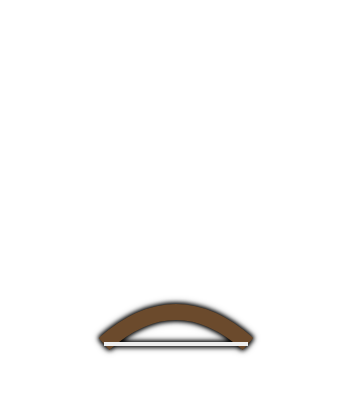
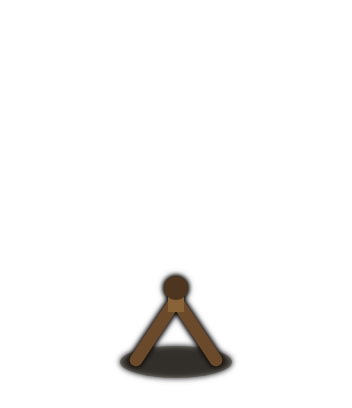
Brandpfeil: Bogen zielt, brennender Pfeil (26q)
Claude-Session: https://claude.ai/code/session_012Nsno37nEjc4wateER8C5H

Changed region(s): [[0.25, 0.6471, 0.75, 0.9412]]

diff --git a/index.html b/index.html
@@ -222,7 +222,7 @@ const FIREBASE_CONFIG = {
   appId: "1:45840879921:web:f4f4f8bb60e49a091ae010"
 };
 const GAME_ID = "spiel1";   // anderer Name = eigenes, getrenntes Spiel
-const VERSION = "2026-10-26p";  // bei JEDER Änderung hochzählen: alte Handys merken so, dass sie neu laden müssen
+const VERSION = "2026-10-26q";  // bei JEDER Änderung hochzählen: alte Handys merken so, dass sie neu laden müssen
 
 /* =====================================================================
    SPIELDATEN – Regeln und Zahlen. Alles hier darf geändert werden.
@@ -1895,14 +1895,14 @@ function drawTower(c, tw, px, py, cs, aim, glow, noBody){
 }
 const TIMG = {};   // 26.10. (F): freistehende Turm-Bilder der Schräg-Ansicht, assets/turm/<element>-<nr>.png (88×102-Raster, Fußpunkt bei y=92), Entwürfe/Quelle: team/GRAFIK.md
 const TOWER_NAME = ['feuer', 'eis', 'schatten', 'stein'];
-const TOWER_H = { feuer:[22,42,26,49,52,65.8,52,42], eis:[26,34.5,66.4,57,39.9,58.2,48,66], schatten:[26,44,39,44,26.6,49,48,60], stein:[48,30,58,62,22,70,33,88] };   // Höhe der Zeichnung über dem Fuß (Raster-Einheiten)
+const TOWER_H = { feuer:[22,42,26,34,52,65.8,52,42], eis:[26,34.5,66.4,57,39.9,58.2,48,66], schatten:[26,44,39,44,26.6,49,48,60], stein:[48,30,58,62,22,70,33,88] };   // Höhe der Zeichnung über dem Fuß (Raster-Einheiten)
 function loadImg(k){   // bei Ladefehler bis zu 3 Wiederholungen (Handy-Netz)
   if (k in TIMG) return TIMG[k] && TIMG[k].complete && TIMG[k].naturalWidth ? TIMG[k] : null;
   const im = new Image(); im.onerror = () => { TIMG[k] = null; loadImg.n[k] = (loadImg.n[k] || 0) + 1; if (loadImg.n[k] < 4) setTimeout(() => { delete TIMG[k]; loadImg(k); }, 1500*loadImg.n[k]); }; im.onload = () => { if (!view25 || typeof drawAll !== 'function') return; drawAll(); clearTimeout(towerImg.t); towerImg.t = setTimeout(() => { if (G && typeof render === 'function') render(); }, 80); }; im.src = 'assets/turm/' + k + '.png'; TIMG[k] = im; return null;
 }
 loadImg.n = {};
 // 26i (F): bewegliche Teile. Jeder Turm hat ein Grundbild (assets/turm/<element>-<nr>.png) und PARTN Teilbilder (…-<nr>p<id>.png, gleiches Raster), die einzeln um einen Drehpunkt bewegt werden
-const PARTN = { feuer:[1,1,2,1,2,2,1,1], eis:[1,1,1,1,1,1,1,2], schatten:[1,1,2,1,2,1,3,2], stein:[1,2,1,1,2,2,2,3] };
+const PARTN = { feuer:[1,1,2,2,2,2,1,1], eis:[1,1,1,1,1,1,1,2], schatten:[1,1,2,1,2,1,3,2], stein:[1,2,1,1,2,2,2,3] };
 function towerImg(el, idx){
   const nmE = TOWER_NAME[el], n = nmE + '-' + (idx + 1), b = loadImg(n), cnt = PARTN[nmE][idx], ps = [];
   let wait = false;
@@ -1917,7 +1917,8 @@ const PARTS = (() => {
     feuer0: [[0, -2, (t, g) => ({ sx: 1 + .1*S(t*9), sy: 1 + .18*S(t*11) + .5*g, r: .08*S(t*7) })]],
     feuer1: [[31, -22, (t, g) => ({ r: .15*S(t*8), sy: 1 + .15*S(t*10) + .5*g, sx: 1 + .3*g })]],
     feuer2: [[7, -12, (t, g, w, dx, dy) => ({ x: -dx*2*g, y: -dy*1.5*g })], [17, -12, (t, g) => ({ sx: 1 + .5*g + .06*S(t*14), sy: 1 + .3*g + .08*S(t*12) })]],
-    feuer3: [[0, -4, (t, g, w) => ({ y: -16*w })]],
+    feuer3: [[0, -20, (t, g, w, dx, dy) => ({ r: Math.max(-.9, Math.min(.9, Math.atan2(dy, Math.abs(dx)))) + .03*S(t*3) - .05*w })],      // Bogen richtet sich auf das Ziel
+             [0, -20, (t, g, w, dx, dy) => { const p = 1 - g; return { r: Math.max(-.9, Math.min(.9, Math.atan2(dy, Math.abs(dx)))), x: p < .2 ? 60*(p/.2) : 0, a: p < .2 ? 1 : p < .55 ? 0 : Math.min(1, (p - .55)/.25) }; }]],   // Pfeil fliegt vorn über den Bogen ab, neuer wird aufgelegt
     feuer4: [[-16.6, -6, (t, g, w, dx, dy) => ({ x: dx*8*w, y: dy*6*w, r: .04*S(t*2) })], [0, -34, (t, g) => ({ sy: 1 + .15*S(t*10) + .4*g, r: .1*S(t*8) })]],
     feuer5: [[0, -46, (t, g) => ({ sy: 1 + .07*S(t*6) + .25*g, sx: 1 + .04*S(t*5) })], [0, -60, (t, g, w) => ({ y: -3*S(t*4) - 8*w, ...sc(1 + .2*g) })]],
     feuer6: [[0, -30, (t, g, w) => ({ r: t*.5 + 1.6*w, ...sc(1 + .12*g) })]],
@@ -1984,7 +1985,7 @@ function drawTower25(c, tw, x, y, cs, aim, glow){
     else if (nm === 'schatten0' || nm === 'schatten5') { sx = sy = 1; ox = oy = 0; }   // Schemen/Phantom: bewegt sich als Teilbild
     else if (nm === 'schatten1') { ox = 0; oy = Math.sin(now*3 + tw.x) * cs*.05 - cs*.05; sx = sy = 1; }   // Irrlicht schwebt
     else if (nm === 'feuer2' || nm === 'feuer3') { ox = -dx*cs*.07*g; }
-    const flip = (nm === 'feuer1' && Math.cos(aim) > 0) || (nm === 'feuer2' && Math.cos(aim) < 0);   // Glumanda blickt nach links, Flammenwerfer-Mündung nach rechts   // Glumanda blickt nach links und dreht sich zum Ziel: Schuss kommt aus dem Maul
+    const flip = (nm === 'feuer1' && Math.cos(aim) > 0) || (nm === 'feuer2' && Math.cos(aim) < 0) || (nm === 'feuer3' && Math.cos(aim) < 0);   // Glumanda blickt nach links, Flammenwerfer-Mündung nach rechts   // Glumanda blickt nach links und dreht sich zum Ziel: Schuss kommt aus dem Maul
     c.save(); c.translate(fx + ox, fy + oy); c.rotate(rotA); c.scale(flip ? -sx : sx, sy);
     c.drawImage(sp, -44*u, -92*u, 88*u, 102*u);
     const gp = Math.max(0, 1 - (now - (FIRE_T[key] === undefined ? -9 : FIRE_T[key])) / .5), wp = gp > 0 ? Math.sin(Math.PI * (1 - gp)) : 0, pd = PARTS[nm];   // bewegliche Teile
@@ -2059,7 +2060,14 @@ function shot25(c, p, x, y, a, cs, time){
     if (i === 1) { tail(q*7, '#ff6a1e66', q*3); ball(q*2.6, '#ff6a1e', '#ffe08a', '#ff8a3d'); return true; }
     if (i === 2) { rot(() => { const fl = 1 + .15*Math.sin(w*2); c.fillStyle = '#e0451a'; c.beginPath(); c.moveTo(-q*9, 0); c.quadraticCurveTo(-q*2, -q*4*fl, q*5, 0); c.quadraticCurveTo(-q*2, q*4*fl, -q*9, 0); c.fill();
         c.fillStyle = '#ffb347'; c.beginPath(); c.moveTo(-q*7, 0); c.quadraticCurveTo(-q*2, -q*2.4, q*3, 0); c.quadraticCurveTo(-q*2, q*2.4, -q*7, 0); c.fill(); c.fillStyle = '#ffe08a'; c.beginPath(); c.ellipse(-q*1, 0, q*3, q*1.1, 0, 0, 7); c.fill(); }); return true; }
-    if (i === 3) return false;
+    if (i === 3) { rot(() => { const fl = 1 + .2*Math.sin(w*2.3);   // brennender Pfeil mit Flammenschweif
+        for (let j = 3; j >= 1; j--) { c.fillStyle = j === 1 ? '#ffb347aa' : '#ff8a3d66'; c.beginPath(); c.ellipse(-q*(3 + j*3.4), Math.sin(w + j)*q*.4, q*(3.6 - j*.6)*fl, q*(1.5 - j*.2), 0, 0, 7); c.fill(); }
+        c.fillStyle = '#c9a26a'; c.fillRect(-q*5, -q*.35, q*8, q*.7); c.fillStyle = '#ddd'; c.beginPath(); c.moveTo(-q*5, 0); c.lineTo(-q*6.4, -q*1.2); c.lineTo(-q*5.6, 0); c.lineTo(-q*6.4, q*1.2); c.fill();
+        c.fillStyle = '#c9c9cf'; c.beginPath(); c.moveTo(q*3, -q*1.1); c.lineTo(q*5, 0); c.lineTo(q*3, q*1.1); c.fill();
+        const gr = c.createRadialGradient(q*2.4, 0, 0, q*2.4, 0, q*5); gr.addColorStop(0, '#ffb347aa'); gr.addColorStop(1, '#ff8a3d00'); c.fillStyle = gr; c.beginPath(); c.arc(q*2.4, 0, q*5, 0, 7); c.fill();
+        c.fillStyle = '#ff8a3d'; c.beginPath(); c.ellipse(q*2.2, 0, q*3.2*fl, q*1.8, 0, 0, 7); c.fill(); c.fillStyle = '#ffe08a'; c.beginPath(); c.ellipse(q*2.6, 0, q*1.8, q*1, 0, 0, 7); c.fill();
+        c.fillStyle = '#ffb347'; for (let j = 0; j < 3; j++) { c.beginPath(); c.arc(-q*(2 + j*3.5) + Math.sin(w*3 + j*2)*q, Math.cos(w*2 + j*3)*q*2, q*.45, 0, 7); c.fill(); } });
+      return true; }
     if (i === 4) { tail(q*6, '#c8301a88', q*2); ball(q*2.4, '#c8301a', '#ffb347', '#ff3a1e'); c.fillStyle = '#3d1410'; for (const sg of [-1, 1]) { c.beginPath(); c.moveTo(x + sg*q*1.4, y - q*2); c.lineTo(x + sg*q*2.8, y - q*4.4); c.lineTo(x + sg*q*.4, y - q*2.6); c.fill(); } return true; }
     if (i === 5) { ball(q*3, '#8a2a10', '#ff6a1e', '#ff5a1e'); c.fillStyle = '#ff8a3d'; c.beginPath(); c.arc(x + q*1.2, y + q*2.6 + Math.sin(w)*q*.4, q*.9, 0, 7); c.fill(); return true; }
     if (i === 6) { ball(q*2.8, '#ffe08a', '#ffffff', '#ffd27a'); return true; }
@@ -2107,6 +2115,7 @@ function drawShot(c, p, cs, time){
   }
   y -= h + (CUR.k < 1 && !p.lob ? cs*.25 : 0);
   if (CUR.k < 1 && p.el === 0 && p.idx === 2) JETS[p.x0 + ',' + p.y0] = { tx:p.tx, ty:p.ty, t:time };   // Flammenwerfer: Ziel merken, die Flamme zeichnet der Turm
+  if (CUR.k < 1 && p.el === 0 && p.idx === 3) { const f = Math.max(0, 1 - (1 - left / tot) * 5), H = TOWER_H.feuer[3], uu = cs * Math.min(1.5, Math.max(.5, H * (1 + 3 * .03) / 44)) / H; x += (Math.cos(dir) > 0 ? 1 : -1) * 20 * uu * f; }   // Brandpfeil: startet vorn am Bogen
   if (CUR.k < 1 && p.el === 0 && p.idx === 1) { const f = Math.max(0, 1 - (1 - left / tot) * 5), uu = cs * .609 / 26; x += (Math.cos(dir) > 0 ? 1 : -1) * 27 * uu * f; }   // Glumanda: Geschoss startet im Maul
   const def = p.def, sz = k * (p.lob ? .42 : .3);
   if (CUR.k < 1 && shot25(c, p, x, y, Math.atan2(dy * CUR.k, dx), cs, time)) return;   // 2,5D: Geschoss passt zum Turm-Bild

diff --git a/tools/turm/tuerme.html b/tools/turm/tuerme.html
@@ -44,7 +44,7 @@ f:[
 ['Funke','Schaden','kleine Feuerschale',20,46,()=>`<ellipse cx="0" cy="-2" rx="12" ry="5" fill="#2b1a14"/><g data-p="0"><path d="M-6 -2 Q-8 -14 0 -22 Q-1 -12 6 -8 Q8 -4 4 -1Z" fill="#ff8a3d"/><path d="M-2 -2 Q-3 -9 1 -14 Q2 -8 3 -2Z" fill="#ffe08a"/></g>`],
 ['Glumanda','Effekt','langer Feuersalamander, Flamme am Schwanzende',26,58,()=>`<path d="M-22 -6 Q-12 -14 4 -11 Q16 -9 22 -4 Q30 0 32 -12 Q33 -20 28 -26 Q36 -20 36 -10 Q36 4 20 2 Q6 0 -6 -2 Q-16 0 -22 -6Z" fill="#2a1f1c"/><ellipse cx="-24" cy="-7" rx="8" ry="6" fill="#2a1f1c"/><circle cx="-27" cy="-10" r="1.9" fill="#ffd27a"/><circle cx="-12" cy="-8" r="2.3" fill="#ff8a3d"/><circle cx="-2" cy="-8" r="2.1" fill="#ffb347"/><circle cx="9" cy="-6" r="2.2" fill="#ff8a3d"/><circle cx="20" cy="-3" r="1.8" fill="#ffb347"/><path d="M-12 -2 l-2 5 M-4 -1 l-1 5 M10 0 l2 5 M16 1 l3 4" stroke="#2a1f1c" stroke-width="3.2" stroke-linecap="round"/><g data-p="0"><path d="M28 -24 Q22 -32 28 -42 Q30 -34 34 -36 Q40 -32 36 -24 Q32 -20 28 -24Z" fill="#ff8a3d"/><path d="M30 -24 Q27 -30 31 -36 Q33 -31 34 -26Z" fill="#ffe08a"/></g>`],
 ['Flammenwerfer','Schaden','Düse mit Feuerstrahl, Tank auf dem Rücken',28,40,()=>`<ellipse cx="0" cy="-1.5" rx="15" ry="4" fill="#2a2218" opacity=".4"/><rect x="-13" y="-4" width="27" height="4" rx="1.5" fill="#5e5953"/><rect x="-12" y="-22" width="12" height="19" rx="5" fill="#a83232"/><rect x="-12" y="-22" width="12" height="4" rx="2" fill="#c94545"/><rect x="-12" y="-14" width="12" height="2.4" fill="#4a1010" opacity=".5"/><circle cx="-6" cy="-24" r="2" fill="#d9cba6"/><rect x="-2" y="-16" width="10" height="9" rx="3" fill="#4a4a4f"/><circle cx="2" cy="-11" r="2" fill="#ffb347"/><g data-p="0"><rect x="7" y="-15" width="9" height="6" rx="2" fill="#2c2c30"/><rect x="14" y="-16" width="3" height="8" rx="1" fill="#3a3a3f"/></g><g data-p="1"><path d="M17 -12 Q20 -17 24 -12 Q20 -8 17 -12Z" fill="#ff8a3d"/><path d="M18 -12 Q20 -14.5 22 -12 Q20 -10 18 -12Z" fill="#ffe08a"/></g>`],
-['Brandpfeil','Luftabwehr','steile Bogenschleuder',34,48,()=>`<path d="M-18 -6 Q0 -22 18 -6" stroke="#6b4a2c" stroke-width="4" fill="none"/><line x1="-18" y1="-6" x2="18" y2="-6" stroke="#eee" stroke-width="1"/><g data-p="0"><rect x="-2" y="-34" width="4" height="30" fill="#c9a26a"/><path d="M0 -44 L-5 -33 L5 -33Z" fill="#ff8a3d"/><path d="M0 -40 q-3 -4 0 -9 q3 5 0 9" fill="#ffe08a"/></g>`],
+['Brandpfeil','Luftabwehr','Holzbogen auf Dreibein, schießt brennende Pfeile',34,40,()=>`<ellipse cx="0" cy="-1.5" rx="14" ry="4" fill="#2a2218" opacity=".4"/><path d="M-10 -2 L0 -17 L10 -2" stroke="#6b4a2c" stroke-width="3.2" fill="none" stroke-linecap="round" stroke-linejoin="round"/><rect x="-2" y="-22" width="4" height="8" fill="#8a6238"/><circle cx="0" cy="-20" r="3" fill="#4d3520"/><g data-p="0"><path d="M2 -34 Q17 -21 2 -8" stroke="#8a6238" stroke-width="3.6" fill="none" stroke-linecap="round"/><path d="M2 -34 L-6 -21 L2 -8" stroke="#eee" stroke-width="1" fill="none"/><rect x="9" y="-24" width="3.4" height="6" rx="1" fill="#4d3520"/></g><g data-p="1"><rect x="-6" y="-21.9" width="22" height="1.8" fill="#c9a26a"/><path d="M-6 -21 L-10 -24 L-8 -21 L-10 -18Z" fill="#ddd"/><path d="M16 -24 L24 -21 L16 -18Z" fill="#c9c9cf"/><path d="M14 -21 Q16 -28 24 -26 Q22 -23 28 -21 Q22 -19 24 -16 Q16 -14 14 -21Z" fill="#ff8a3d"/><path d="M17 -21 Q19 -25 24 -21 Q19 -17 17 -21Z" fill="#ffe08a"/></g>`],
 ['Feuerteufel','Effekt','kleiner Teufel mit Dreizack',34,52,()=>`<path d="M-9 -4 Q-12 -22 0 -24 Q12 -22 9 -4Z" fill="#c8301a"/><circle cx="0" cy="-32" r="9" fill="#d83a22"/><path d="M-7 -37 L-12 -48 L-3 -40Z M7 -37 L12 -48 L3 -40Z" fill="#3d1410"/><g data-p="1"><path d="M-9 -34 Q-12 -46 -6 -48 Q-6 -40 -2 -39 Q0 -50 4 -49 Q3 -41 8 -40 Q12 -38 9 -34Z" fill="#ff8a3d" opacity=".9"/></g><path d="M-5 -33 l3 1.5 M5 -33 l-3 1.5" stroke="#ffe08a" stroke-width="2.2" stroke-linecap="round"/><path d="M-4 -26 Q0 -22 4 -26" stroke="#3d1410" stroke-width="1.8" fill="none"/><path d="M10 -6 Q22 -8 22 -20" stroke="#3d1410" stroke-width="2" fill="none"/><path d="M-9 -18 Q-20 -10 -16 -2" stroke="#3d1410" stroke-width="2" fill="none"/><g data-p="0"><rect x="-17.8" y="-40" width="2.4" height="38" fill="#4a3022"/><path d="M-22 -50 L-22 -40 L-10.6 -40 L-10.6 -50 M-16.6 -52 L-16.6 -40" stroke="#c9c9cf" stroke-width="2.2" fill="none" stroke-linecap="round"/></g>`],
 ['Lavaturm','Fläche','Steinturm mit Zinnen, Lava läuft herab',56,56,()=>`<ellipse cx="0" cy="-2" rx="18" ry="5" fill="#2b1a14"/><path d="M-14 -2 L-12 -46 L12 -46 L14 -2Z" fill="#6b5446"/><path d="M2 -46 L12 -46 L14 -2 L2 -2Z" fill="#4d3a30"/><path d="M-16 -46 L-16 -54 L-10 -54 L-10 -50 L-5 -50 L-5 -54 L0 -54 L0 -50 L5 -50 L5 -54 L10 -54 L10 -50 L16 -50 L16 -46Z" fill="#7d6556"/><path d="M-13 -48 L13 -48" stroke="#ffb347" stroke-width="3"/><g data-p="0"><path d="M-6 -46 Q-8 -34 -4 -28 Q-2 -20 -5 -12" stroke="#ff6a1e" stroke-width="3.4" fill="none" stroke-linecap="round"/><path d="M5 -46 Q8 -36 4 -30 Q2 -22 6 -14" stroke="#ff6a1e" stroke-width="2.8" fill="none" stroke-linecap="round"/><circle cx="-5" cy="-11" r="2.6" fill="#ff8a3d"/><circle cx="6" cy="-13" r="2.2" fill="#ffb347"/></g><path d="M-9 -22 l4 -3 M8 -26 l-3 -4" stroke="#ff8a3d" stroke-width="1.6"/><ellipse cx="0" cy="-12" rx="16" ry="3" fill="#ff6a1e" opacity=".35"/><g data-p="1"><circle cx="-4" cy="-60" r="2.4" fill="#ff8a3d"/><circle cx="6" cy="-64" r="1.8" fill="#ffb347"/></g>`],
 ['Sonnenturm','Schaden','Sonnenscheibe mit Strahlen',46,52,()=>{let r='';for(let i=0;i<12;i++){const a=i*Math.PI/6;r+=`<line x1="${Math.cos(a)*14}" y1="${-30+Math.sin(a)*14}" x2="${Math.cos(a)*22}" y2="${-30+Math.sin(a)*22}" stroke="#ffd27a" stroke-width="3" stroke-linecap="round"/>`}return `<rect x="-3" y="-20" width="6" height="18" fill="#6b4a2c"/><g data-p="0">${r}<circle cx="0" cy="-30" r="12" fill="#ffb347"/><circle cx="0" cy="-30" r="8" fill="#ffe08a"/></g>`}],

diff --git a/team/UPDATES.md b/team/UPDATES.md
@@ -4,6 +4,9 @@
 Überschrift: drei Rauten, Datum Uhrzeit · L oder F · VERSION – Titel; darunter höchstens 5 Zeilen: was, warum, worauf achten.
 Mehr als 15 Einträge → die ältesten oben in team/archiv/updates-archiv.md einfügen. -->
 <!-- NEUE EINTRÄGE HIER -->
+### 26.10. 17:20 · F · 2026-10-26q – Brandpfeil: Bogen zielt, brennender Pfeil fliegt nach vorn
+Brandpfeil neu gezeichnet (Holzbogen auf Dreibein, 2 Teilbilder: Bogen, Pfeil; `PARTN`, `TOWER_H` angepasst). Dreht sich zum Ziel (Spiegelung wie Glumanda/Flammenwerfer), Bogen neigt sich zum Ziel, Pfeil fliegt vorn ab und wird neu aufgelegt. Geschoss (`shot25`, `feuer` Nr. 4): brennender Pfeil mit Flammenschweif, startet vorn am Bogen. Nur Anzeige.
+
 ### 26.10. 17:00 · F · 2026-10-26p – Flammenwerfer: ein Feld groß, zusammenhängende Flamme
 Flammenwerfer neu gezeichnet (Tank + Düse, passt auf ein Feld; `tools/turm/tuerme.html`, Bilder neu erzeugt, `TOWER_H` feuer[2] = 26). Die Flamme (`drawFlame`, gezeichnet im Turm anhand `JETS`) ist ein welliges Band in drei Schichten von der Mündung bis zum Monster, mit Funken und Glut am Ziel. Nur Anzeige.
 
@@ -45,7 +48,3 @@ Schräg-Ansicht: alle 32 Türme als freistehende Bilder (`assets/turm/<element>-
 
 ### 26.10. 10:20 · F · 2026-10-26c – Schatten-Türme als freie Bilder (Schräg-Ansicht)
 In der Schräg-Ansicht stehen die 8 Schatten-Türme ohne Sockel als Bilder (`assets/turm/schatten-1..8.png`, `towerImg`, `drawTower25`); Zahl, Edelstein und Stufen liegen flach auf dem Feld. Entwürfe für Feuer/Eis/Stein sind noch in Überarbeitung (F), bis dahin Block-Türme. Draufsicht unverändert. Nur Anzeige.
-
-### 26.10. 10:00 · F · 2026-10-26b – Schräg-Ansicht (2,5D) für die Maps
-Menü ⋯ → „Ansicht“: Draufsicht oder Schräg. Boden um 0,68 gestaucht (Reichweiten, Explosionen, Licht werden Ellipsen), Türme als Blöcke mit Schatten, Bäume/Berge/Monster stehen aufrecht und werden nach Tiefe sortiert. Nur Anzeige (`view25`, `CUR`, `gyOf`, `drawTower25`), Simulation unberührt; Standard bleibt Draufsicht. Tippen: aufragende Türme zählen zum Feld davor.
-

diff --git a/team/archiv/updates-archiv.md b/team/archiv/updates-archiv.md
@@ -1,6 +1,10 @@
 # Archiv: ältere Updates (neueste oben)
 
 
+### 26.10. 10:00 · F · 2026-10-26b – Schräg-Ansicht (2,5D) für die Maps
+Menü ⋯ → „Ansicht“: Draufsicht oder Schräg. Boden um 0,68 gestaucht (Reichweiten, Explosionen, Licht werden Ellipsen), Türme als Blöcke mit Schatten, Bäume/Berge/Monster stehen aufrecht und werden nach Tiefe sortiert. Nur Anzeige (`view25`, `CUR`, `gyOf`, `drawTower25`), Simulation unberührt; Standard bleibt Draufsicht. Tippen: aufragende Türme zählen zum Feld davor.
+
+
 ### 26.10. 08:40 · L · 2026-10-26a – Irrlicht wirkt auf die Monster im Lichtkreis
 - So war es gedacht (L): Schatten-Türme machen gegen Monster, die gerade in einem Lichtkreis sind, mehr Schaden (×buff) und ignorieren dort Rüstung (pierce) – egal, wo der Turm steht. Vorher galt die Verstärkung nur für Schatten-Türme, die im Kreis standen. Nachtsicht unverändert.
 - Umsetzung in `tools/balance/basis/irrlicht.js` (dieselbe Änderung gilt im Spiegel über `basis/patch.js`); `amps` jetzt am Sim-Objekt, Wirkung in `hit` (`litP`). Leuchtfeuer (allBuff) analog für andere Elemente.
